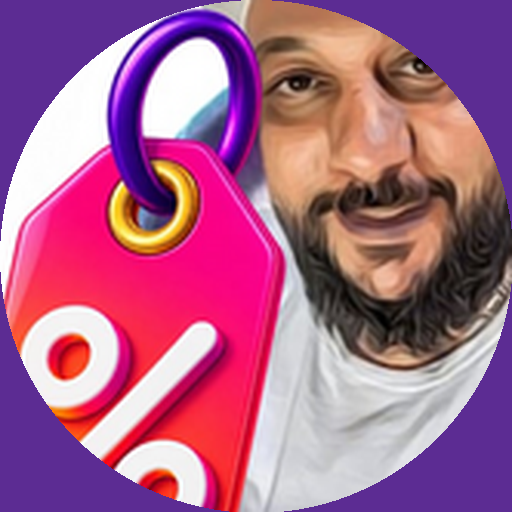
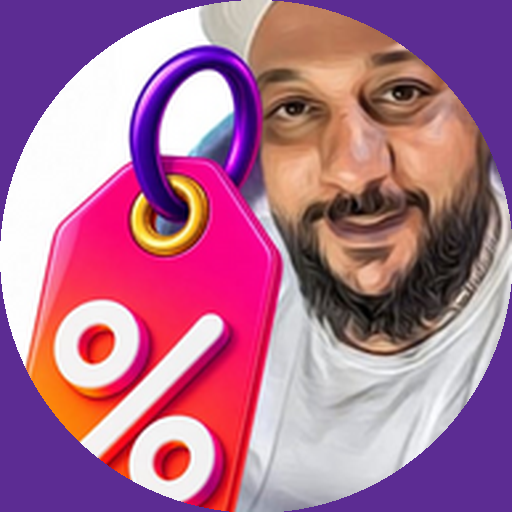
زووم أوت خفيف على كل نسخ اللوجو (هيدر، فوتر، أيقونة الأبليكيشن، وباقي الصفحات) من 1.7x لـ1.55x

diff --git a/src/app/about/page.tsx b/src/app/about/page.tsx
@@ -13,7 +13,7 @@ export default function AboutPage() {
           <img
             src="/brand/logo-icon.png"
             alt=""
-            className="pointer-events-none absolute -bottom-8 left-1/2 -translate-x-1/2 w-40 h-40 rounded-full opacity-10 object-cover scale-[1.7]"
+            className="pointer-events-none absolute -bottom-8 left-1/2 -translate-x-1/2 w-40 h-40 rounded-full opacity-10 object-cover scale-[1.55]"
           />
           <div className="relative max-w-2xl mx-auto px-4 py-14 md:py-20 text-center">
             <h1 className="text-2xl md:text-3xl font-extrabold mb-2">عن ترباوية</h1>

diff --git a/src/app/join/JoinWizard.tsx b/src/app/join/JoinWizard.tsx
@@ -222,7 +222,7 @@ export default function JoinWizard() {
             <img
               src="/brand/logo-icon.png"
               alt="ترباوية"
-              className="w-full h-full rounded-full object-cover scale-[1.7]"
+              className="w-full h-full rounded-full object-cover scale-[1.55]"
             />
           </span>
           <h1 className="text-2xl font-extrabold text-brand-ink mb-2">اتنشر مطعمك على ترباوية!</h1>

diff --git a/src/app/owner/login/page.tsx b/src/app/owner/login/page.tsx
@@ -74,7 +74,7 @@ export default function OwnerLoginPage() {
             <img
               src="/brand/logo-icon.png"
               alt="ترباوية"
-              className="w-full h-full rounded-full object-cover scale-[1.7]"
+              className="w-full h-full rounded-full object-cover scale-[1.55]"
             />
           </span>
           <h1 className="text-2xl font-extrabold">تسجيل دخول أصحاب المطاعم</h1>

diff --git a/src/components/Footer.tsx b/src/components/Footer.tsx
@@ -9,7 +9,7 @@ export default function Footer() {
               <img
                 src="/brand/logo-icon.png"
                 alt="ترباوية"
-                className="w-full h-full rounded-full object-cover scale-[1.7]"
+                className="w-full h-full rounded-full object-cover scale-[1.55]"
               />
             </span>
             <span className="text-xl font-extrabold text-white">ترباوية</span>

diff --git a/src/app/owner/signup/page.tsx b/src/app/owner/signup/page.tsx
@@ -102,7 +102,7 @@ export default function OwnerSignupPage() {
             <img
               src="/brand/logo-icon.png"
               alt="ترباوية"
-              className="w-full h-full rounded-full object-cover scale-[1.7]"
+              className="w-full h-full rounded-full object-cover scale-[1.55]"
             />
           </span>
           <h1 className="text-2xl font-extrabold">سجّل حساب مطعمك</h1>

diff --git a/src/components/Header.tsx b/src/components/Header.tsx
@@ -70,7 +70,7 @@ export default function Header() {
             <img
               src="/brand/logo-icon.png"
               alt="ترباوية"
-              className="w-full h-full rounded-full object-cover scale-[1.7]"
+              className="w-full h-full rounded-full object-cover scale-[1.55]"
             />
           </span>
           <span className="text-xl font-extrabold text-white">ترباوية</span>
